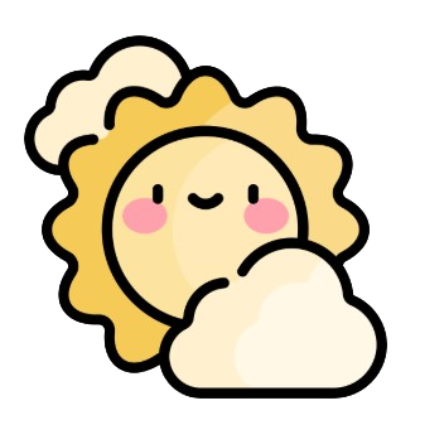
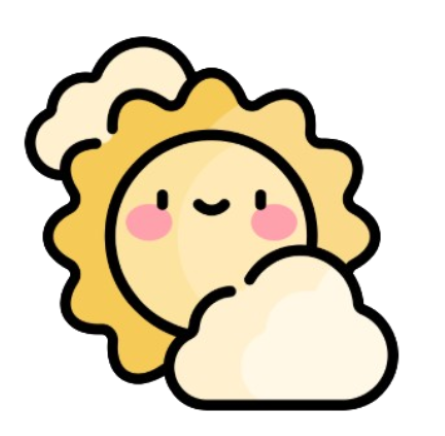
솔루션 이미지 변경 및 수정 사항

diff --git a/lib/emotion_bar_page.dart b/lib/emotion_bar_page.dart
@@ -66,10 +66,10 @@ class _EmotionStatsPageState extends State<EmotionBarPage> {
   String _getSolutionImage(Map<String, int> counts) {
     final total = counts.values.fold(0, (a, b) => a + b);
     final positive = counts['happy'] ?? 0;
-    final negative = (counts['neutral'] ?? 0) + (counts['sad'] ?? 0);
+    final negative = (counts['bad'] ?? 0) + (counts['angry'] ?? 0);
 
     if (total == 0) return 'assets/solution/solution_sunny.png';
-    if (negative > total * 0.5) return 'assets/solution/solution_moon.png';
+    if (negative > total * 0.5) return 'assets/solution/solution_cloud.png';
     if (positive > total * 0.5) return 'assets/solution/solution_sunny.png';
     return 'assets/solution/solution_rainbow.png';
   }
